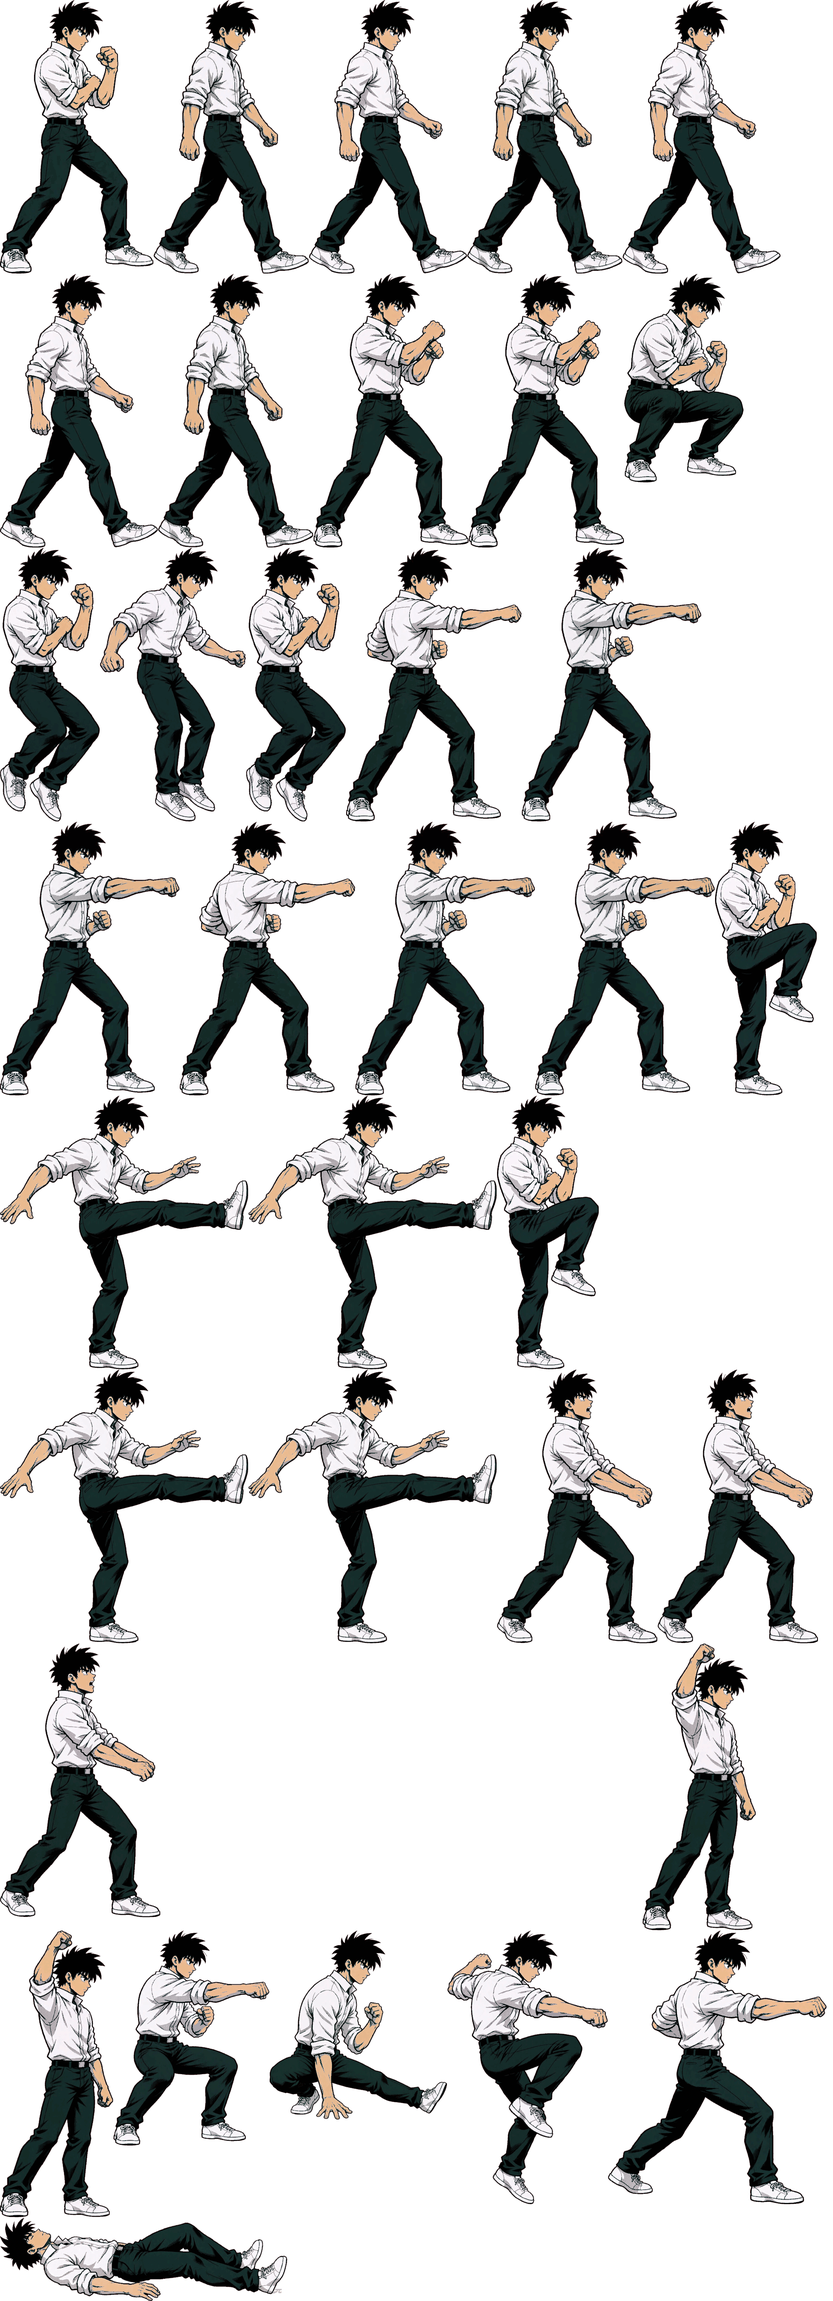
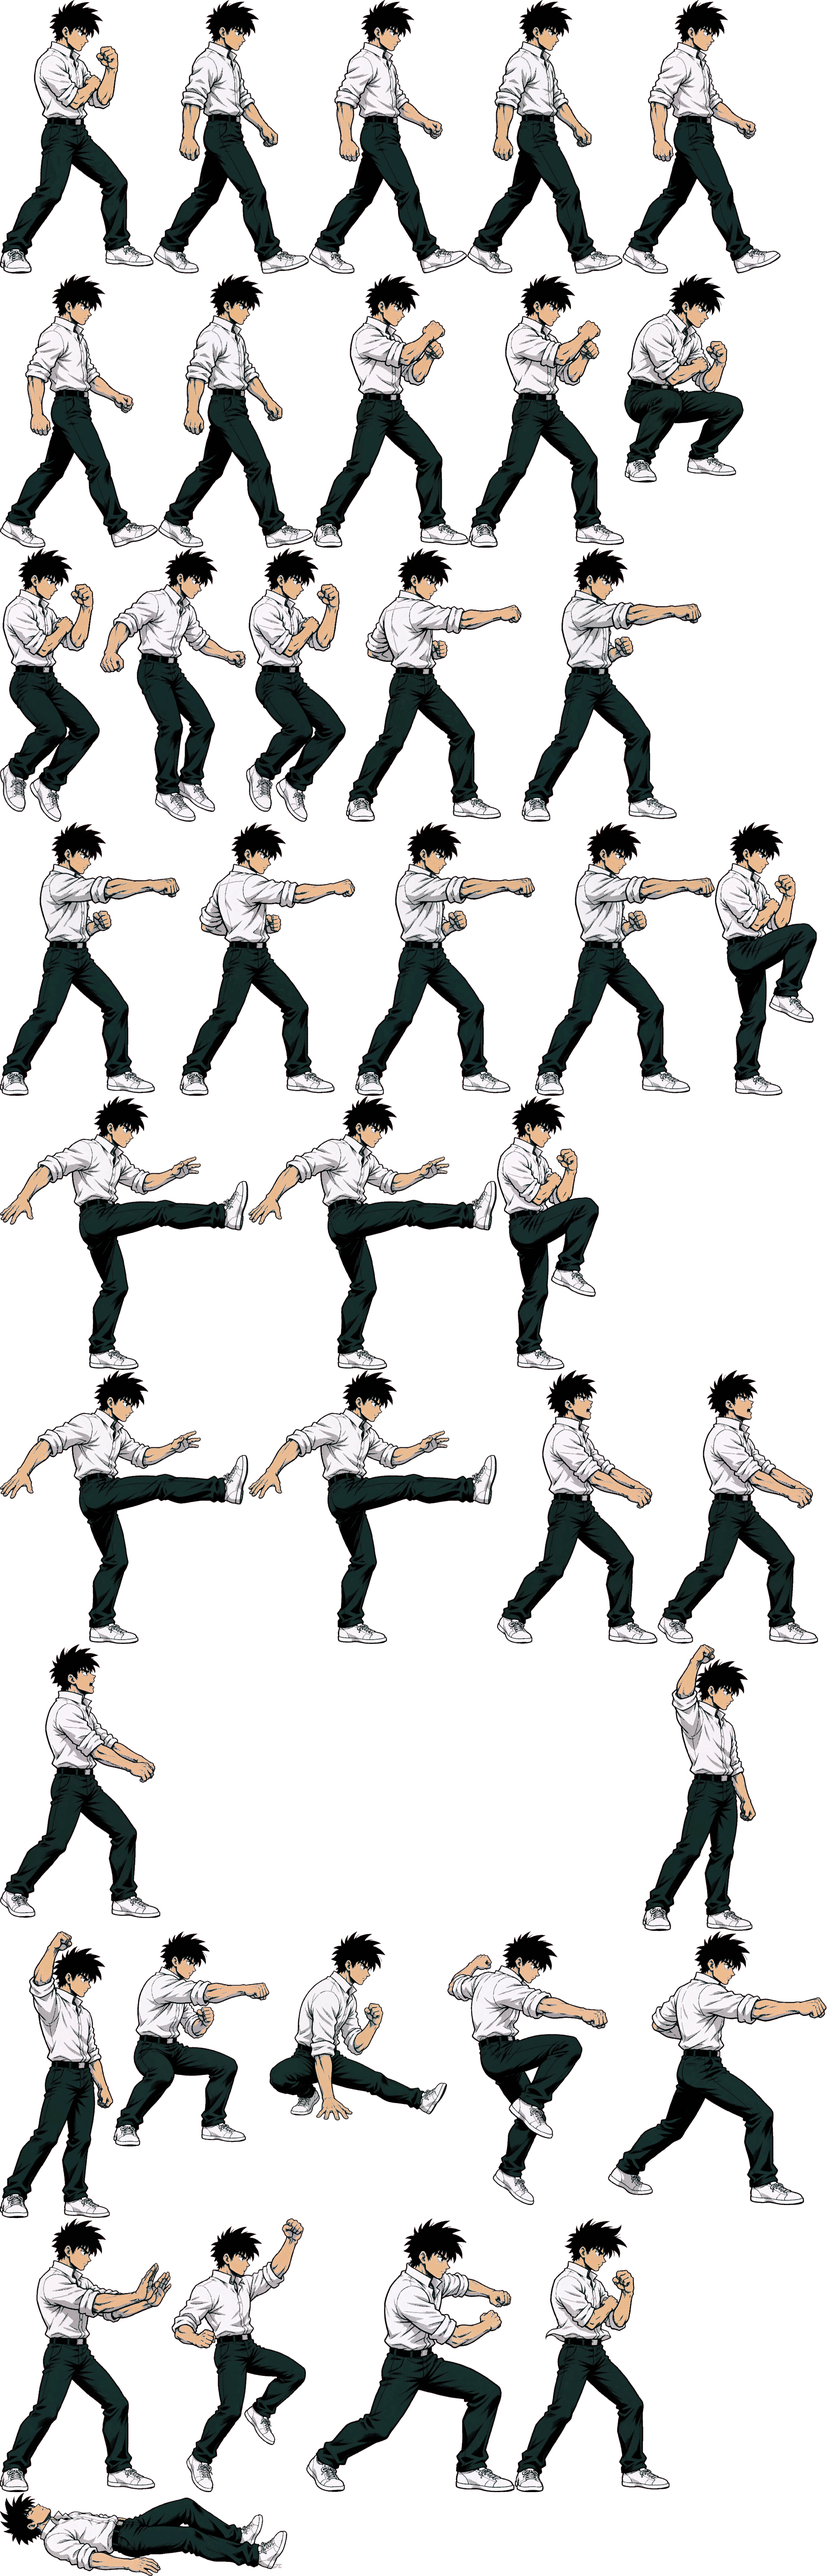
批次 20261025-2009 · [T200] 必杀真专属动作：京的 4 个姿势出图并接进数据
出图（真跑了，不是占位）：
- gen-poses --char kyo --only specialprojectile,specialuppercut,specialrush,supercharge
  → 4 个姿势全部生成，日志显示"完成。失败：无"
- build-sheet --char kyo 重新打包：specialProjectile 1 帧 421×672、superCharge 1 帧 380×672
  都进了图集，public/sheets/kyo.png 1.67MB

代码侧：
- chars.mjs 补 kyo 条目（京一直不在角色表里，--char kyo 直接报"未知角色 kyo"，
  专属姿势根本没法出图 —— 这是整件事卡了很久的真正原因）
- poses.ts 加 4 个程序化版本（出图期间回落，避免闪回像素人）
- poseForMove 切到新姿势：236/214 → specialProjectile、623/421 → specialUppercut、
  6/双击 → specialRush、超必杀 → superCharge
- OPTIONAL_POSES 白名单清空，测试恢复"一个都不能少"

怎么验证的：
- npm run check 911 条全绿（含"姿势库每个动画都有贴图"的全量守卫）
- 打包输出确认两个新动画的帧与尺寸都在图集里

diff --git a/src/render/move-anim.ts b/src/render/move-anim.ts
@@ -12,25 +12,25 @@ import type { MoveDef } from '../data/schema';
 
 /** 指令 → 姿势。键是 motion，值是姿势库里的名字（贴图图集里都有） */
 const MOTION_POSE: Record<string, string> = {
-  // 波动 / 旋风：手上发力
-  '236': 'punchHeavy',
-  '214': 'punchHeavy',
-  '41236': 'punchHeavy',
-  '63214': 'punchHeavy',
-  // 升龙 / 逆向升龙：向上踢
-  '623': 'kickHeavy',
-  '421': 'kickHeavy',
+  // 波动 / 旋风：双手前推（京已出图，其它角色回落程序化版本）
+  '236': 'specialProjectile',
+  '214': 'specialProjectile',
+  '41236': 'specialProjectile',
+  '63214': 'specialProjectile',
+  // 升龙 / 逆向升龙：向上冲
+  '623': 'specialUppercut',
+  '421': 'specialUppercut',
   // 单方向突进（6B 一类）与双击冲刺：整个人撞出去
-  '6': 'jumpAttack',
-  doubleTapF: 'jumpAttack',
-  doubleTapB: 'jumpAttack',
+  '6': 'specialRush',
+  doubleTapF: 'specialRush',
+  doubleTapB: 'specialRush',
   // 蓄力招：先摆架势，用通用攻击姿势
   chargeBack: 'attack',
   chargeDown: 'attack',
 };
 
 /** 超必杀一律用 `special`（贴图里那一套是为大招画的，最有气势） */
-const SUPER_POSE = 'special';
+const SUPER_POSE = 'superCharge';
 
 /**
  * 取招式该用的姿势名。

diff --git a/tests/move-anim.test.ts b/tests/move-anim.test.ts
@@ -15,10 +15,10 @@ describe('必杀技专属动作', () => {
     expect(dp).not.toBe(superMove);
   });
 
-  it('波动用推手、升龙用重脚、超必杀用 special', () => {
-    expect(poseForMotion('236')).toBe('punchHeavy');
-    expect(poseForMotion('623')).toBe('kickHeavy');
-    expect(poseForMove(KYO.moves['236236AC']!)).toBe('special');
+  it('波动用推手、升龙用上挑、超必杀用蓄力（各有专属姿势）', () => {
+    expect(poseForMotion('236')).toBe('specialProjectile');
+    expect(poseForMotion('623')).toBe('specialUppercut');
+    expect(poseForMove(KYO.moves['236236AC']!)).toBe('superCharge');
   });
 
   it('映射出来的姿势必须真的存在（否则有贴图的角色会回落到程序化绘制）', () => {

diff --git a/tests/sprite-loader.test.ts b/tests/sprite-loader.test.ts
@@ -81,7 +81,7 @@ describe('贴图 JSON', () => {
  * 贴图还在生成中的新姿势：缺失时回落到程序化版本，不算失败。
  * 出完图把它们从这里删掉，测试会重新变成"一个都不能少"。
  */
-const OPTIONAL_POSES = new Set(['specialProjectile', 'specialUppercut', 'specialRush', 'superCharge']);
+const OPTIONAL_POSES = new Set<string>([]);
 
 describe('京的贴图产物（build-kyo.mjs 的输出）', () => {
   const raw: unknown = sheetJson;

diff --git a/.continue/doing/59bce7.md b/.continue/doing/59bce7.md
@@ -4,11 +4,11 @@
 > 创建：2026-10-25
 > 批次：20261025-2009
 
-> 本批目标：必杀"真专属动作"。代码侧加 4 个新姿势（程序化 + 提示词），
-> 后台出图；有图就用真贴图，没图回落程序化。
+> 本批目标：必杀"真专属动作"——4 个新姿势出图并接进数据。
 
-- [~] [T200] 必杀真专属动作：4 个新姿势（波动推手 / 升龙上挑 / 前冲肩撞 / 超必杀蓄力）
-  - 已完成（代码侧）：①`scripts/sprites/chars.mjs` 补上 `kyo` 条目（京一直不在角色表里，所以 `--char kyo` 报"未知角色"）；②`gen-poses.mjs` 的 `POSES` 加 4 条提示词；③`render/poses.ts` 的姿势库加 4 个程序化版本（贴图缺失时的回落，不能让人在出图前看到闪回）；④`sprite-loader.test.ts` 加 `OPTIONAL_POSES` 白名单——新姿势出图前允许缺失，出完图删掉白名单就恢复"一个都不能少"
-  - 进行中：后台 `gen-poses.mjs --char kyo --only specialprojectile,specialuppercut,specialrush,supercharge`，日志 `/tmp/gen-special.log`，第一个姿势已开始生成
-  - 还剩：出图完成后打包（`build-sheet --char kyo`）→ 删白名单 → `poseForMove` 指向新姿势（现在仍指向 punchHeavy/kickHeavy，因为新姿势还没有贴图，提前切会闪回程序化）→ 截图验证
+- [x] [T200] 必杀真专属动作：4 个新姿势（波动推手 / 升龙上挑 / 前冲肩撞 / 超必杀蓄力）
+  - 做了什么：①`chars.mjs` 补 `kyo` 条目（京一直不在角色表里，`--char kyo` 直接报未知角色）；②`gen-poses.mjs` 的 `POSES` 加 4 条提示词；③`poses.ts` 加 4 个程序化版本（贴图缺失时回落）；④**出图**：`gen-poses --char kyo --only specialprojectile,...`，4 个姿势全部生成成功（无失败）；⑤`build-sheet.mjs` 的动画映射表加 4 行，重新打包进 `public/sheets/kyo.png`；⑥`poseForMove` 切到新姿势（236/214→specialProjectile、623/421→specialUppercut、6/双击→specialRush、超必杀→superCharge）；⑦`OPTIONAL_POSES` 白名单清空，测试恢复"一个都不能少"
+  - 为什么先把新姿势加进姿势库再出图：出图要 40 分钟，期间如果不回落，玩家会看到"闪一下像素人"；程序化版本让这段时间也是完整的
+  - 为什么最后才切 `poseForMove`：没贴图时切过去就是闪回程序化，比"动作不够独特"更糟
+  - 验证：`npm run check` **911 条全绿**（含"姿势库每个动画都有贴图"的全量守卫）；打包输出确认 `specialProjectile 1 帧 421×672`、`superCharge 1 帧 380×672` 都在图集里；`public/sheets/kyo.png` 1.67MB
   - 批次：20261025-2009

diff --git a/.continue/TASKS.md b/.continue/TASKS.md
@@ -217,7 +217,7 @@
 - [x] T197 天气层：夜城下雨 / 山谷落花 / 斗技场浮尘（确定性粒子、跟随视差）
 - [x] T198 多套连招：每角色 2~3 套（入门/标准/高伤），训练场可切换
 - [x] T199 真专属动作管线（代码就绪）：必杀新增姿势名并出图（先验证 1 个角色），无图回落映射
-- [ ] T200 必杀真专属动作出图：按 `chars.mjs` 跑姿势生成（约 40 分钟/角色），改 `MoveDef.anim` 指向新姿势
+- [x] T200 必杀真专属动作：京的 4 个专属姿势已出图并接进数据（其余角色仍回落程序化版本）
 - [x] T201 打击顿帧分级：必杀 +2 帧 / 超必杀 +6 帧
 - [x] T202 天气开关：设置里可关（挡视线/省电）
 - [x] T204 CPU 会用资源：气满放超必杀 + 按距离选招（远了发波、近了升龙）
